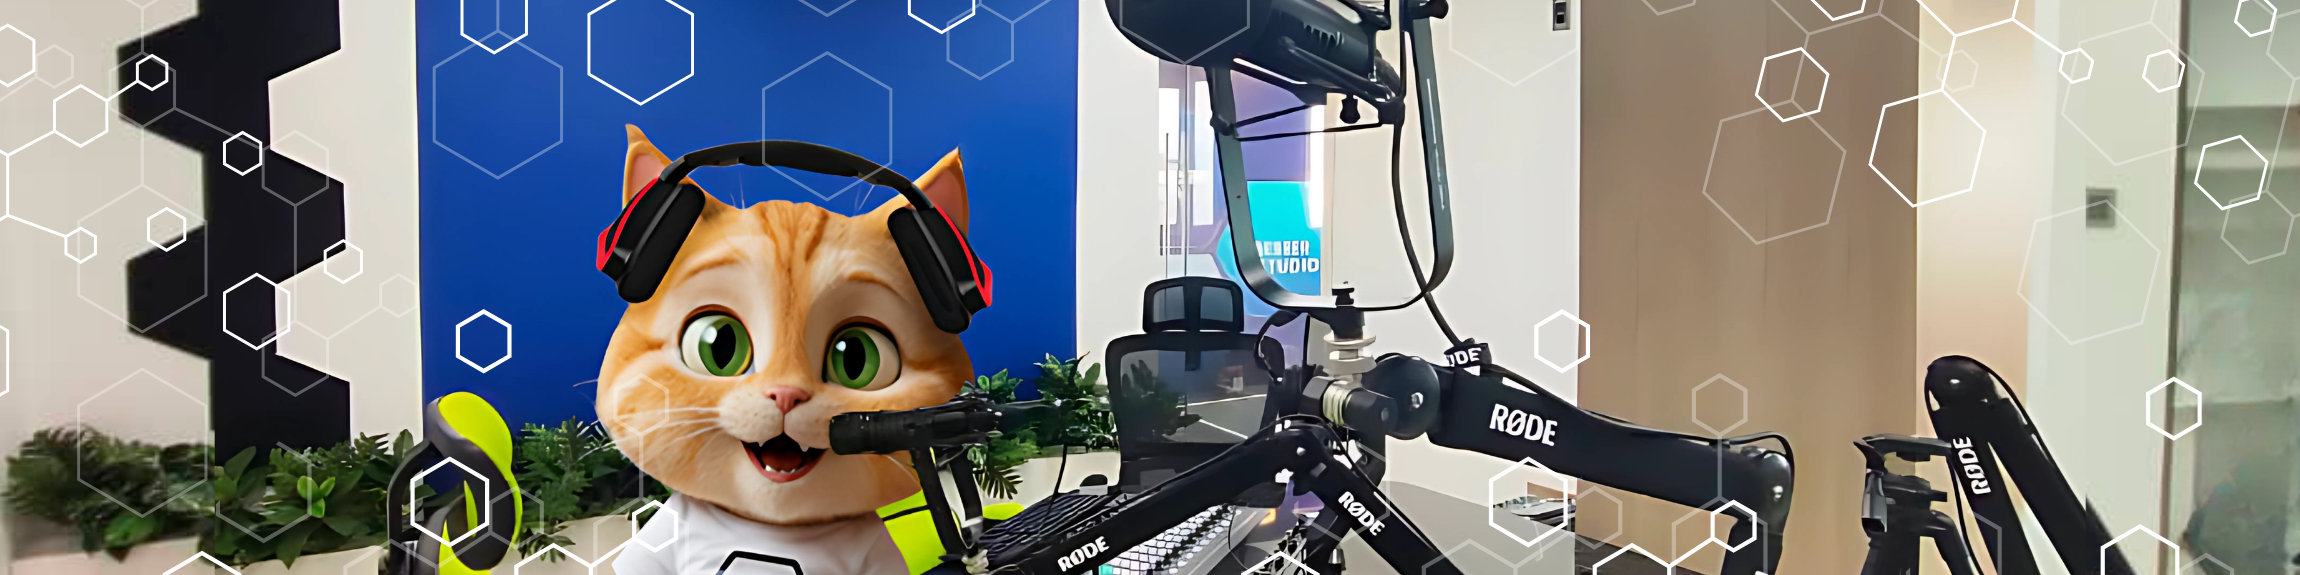
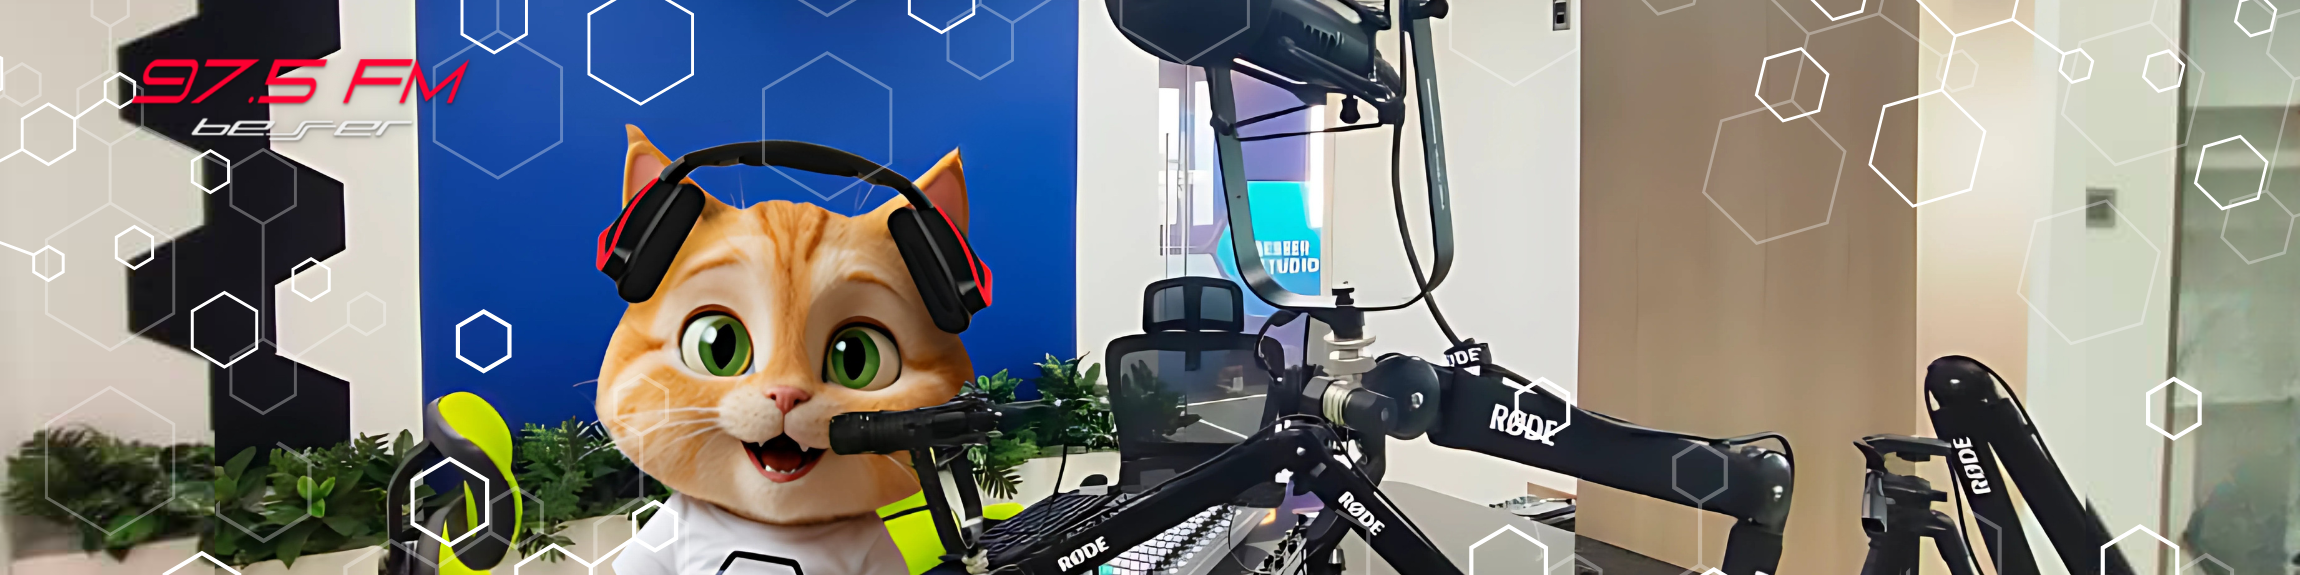
.

diff --git a/style.css b/style.css
@@ -242,22 +242,6 @@ html  ,body{
     color: red;
     font-weight: bold;
 }
-
-
-.container-logo-portada{
-    position:absolute;
-    z-index: 1;
-    width: 500px;
-    height: 300px;
-    top: -50px;
-    left: -25px;
-  
-}
-.container-logo-portada img{
-    width: 100%;
-    height: 100%;
-}
-
 .sub-container-contactanos-footer  , .sub-container-info-footer{
     margin-top:10px !important;
     text-align: center;
@@ -378,15 +362,6 @@ input[type="range"]::-webkit-slider-thumb {
         height: 200px;
         
     }
-
-
-.container-logo-portada{
-    position: fixed;
-    z-index: 1;
-    width: 300px;
-    height: 200px;
-    top: -5%;
-}
   }
 
 
@@ -416,13 +391,7 @@ input[type="range"]::-webkit-slider-thumb {
         width: 100px;
     }
 
-    .container-logo-portada{
-        width: 100px;
-        height: 160px;
-        z-index: 1;
-        width: 160px;
-        top: -5%;
-    }
+
     
   }
 

diff --git a/index.html b/index.html
@@ -14,9 +14,7 @@
 
         <img src="./assets/portada.png" class="img-fluid image-portada image-outside" alt="">
         <div class="container-sound  ">
-            <div class="container-logo-portada">
-                <img src="./assets/logo-portada.png" alt="">
-            </div>
+
             <img src="./assets/portada.png" class="img-fluid image-portada image-inside" alt="">
             <div class="container-reproductive container-fluid col-12 col-xxl-4 ">
                 <p class="helper">Disfruta de nuestra programación AQUÍ.</p>
